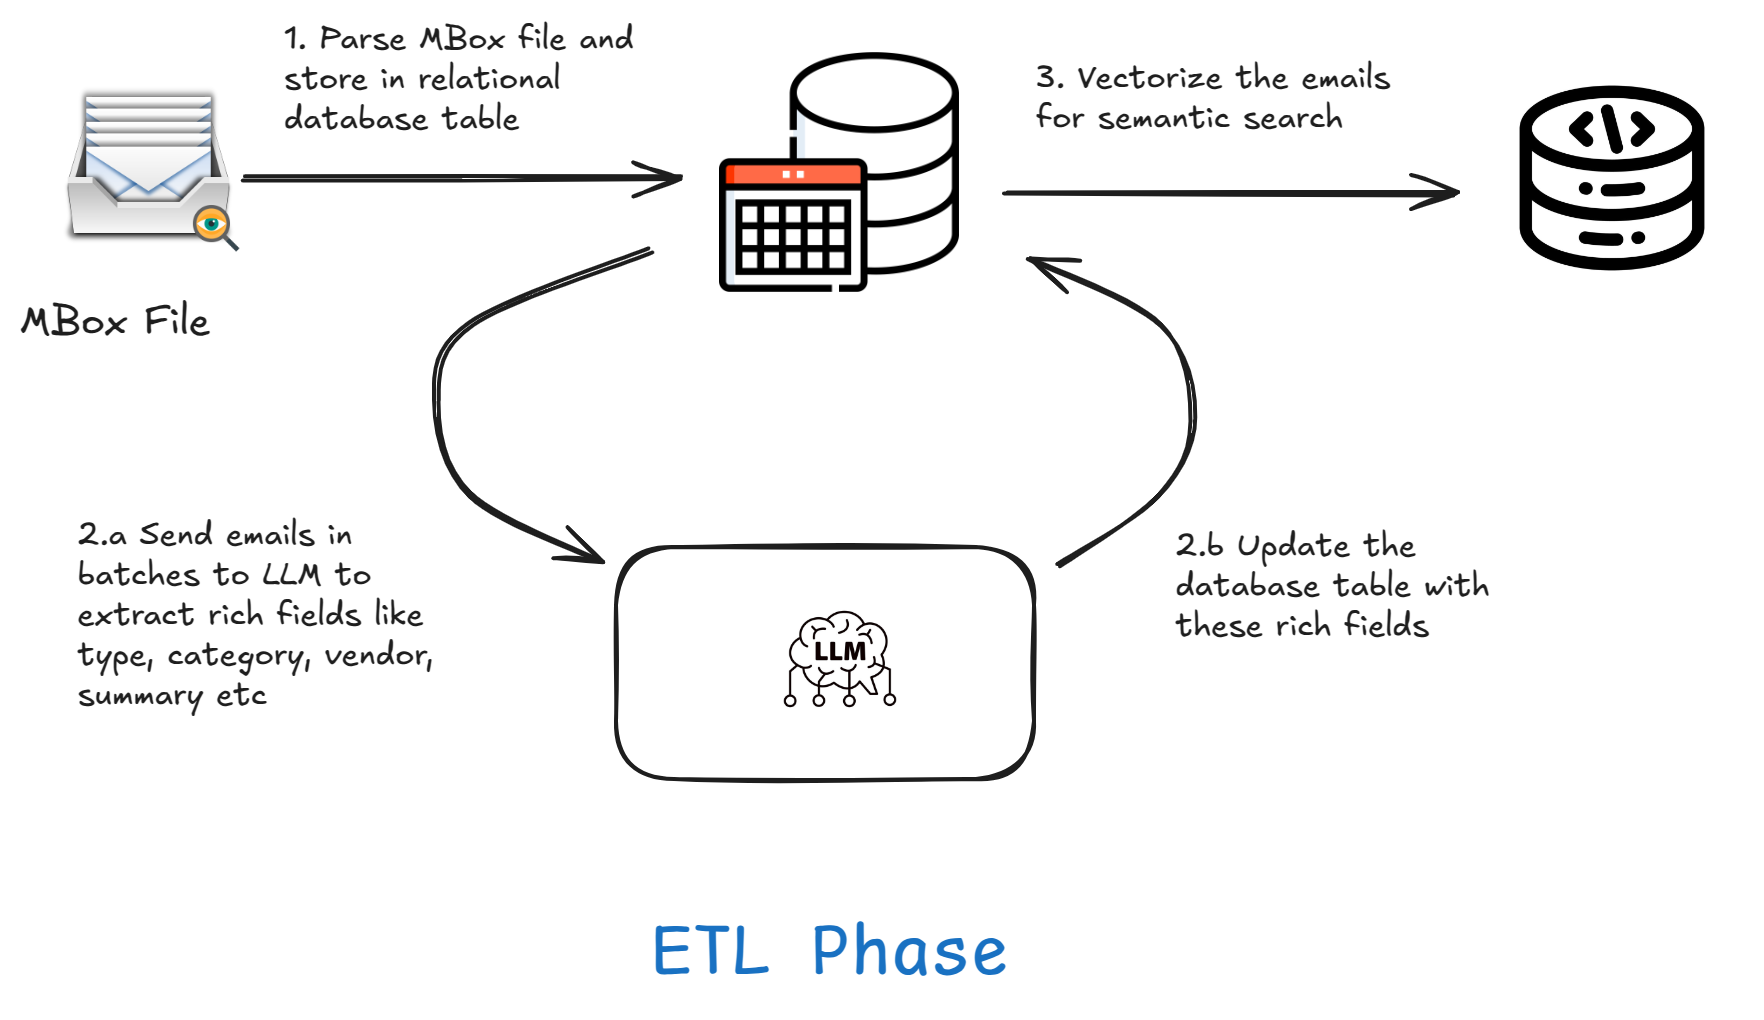
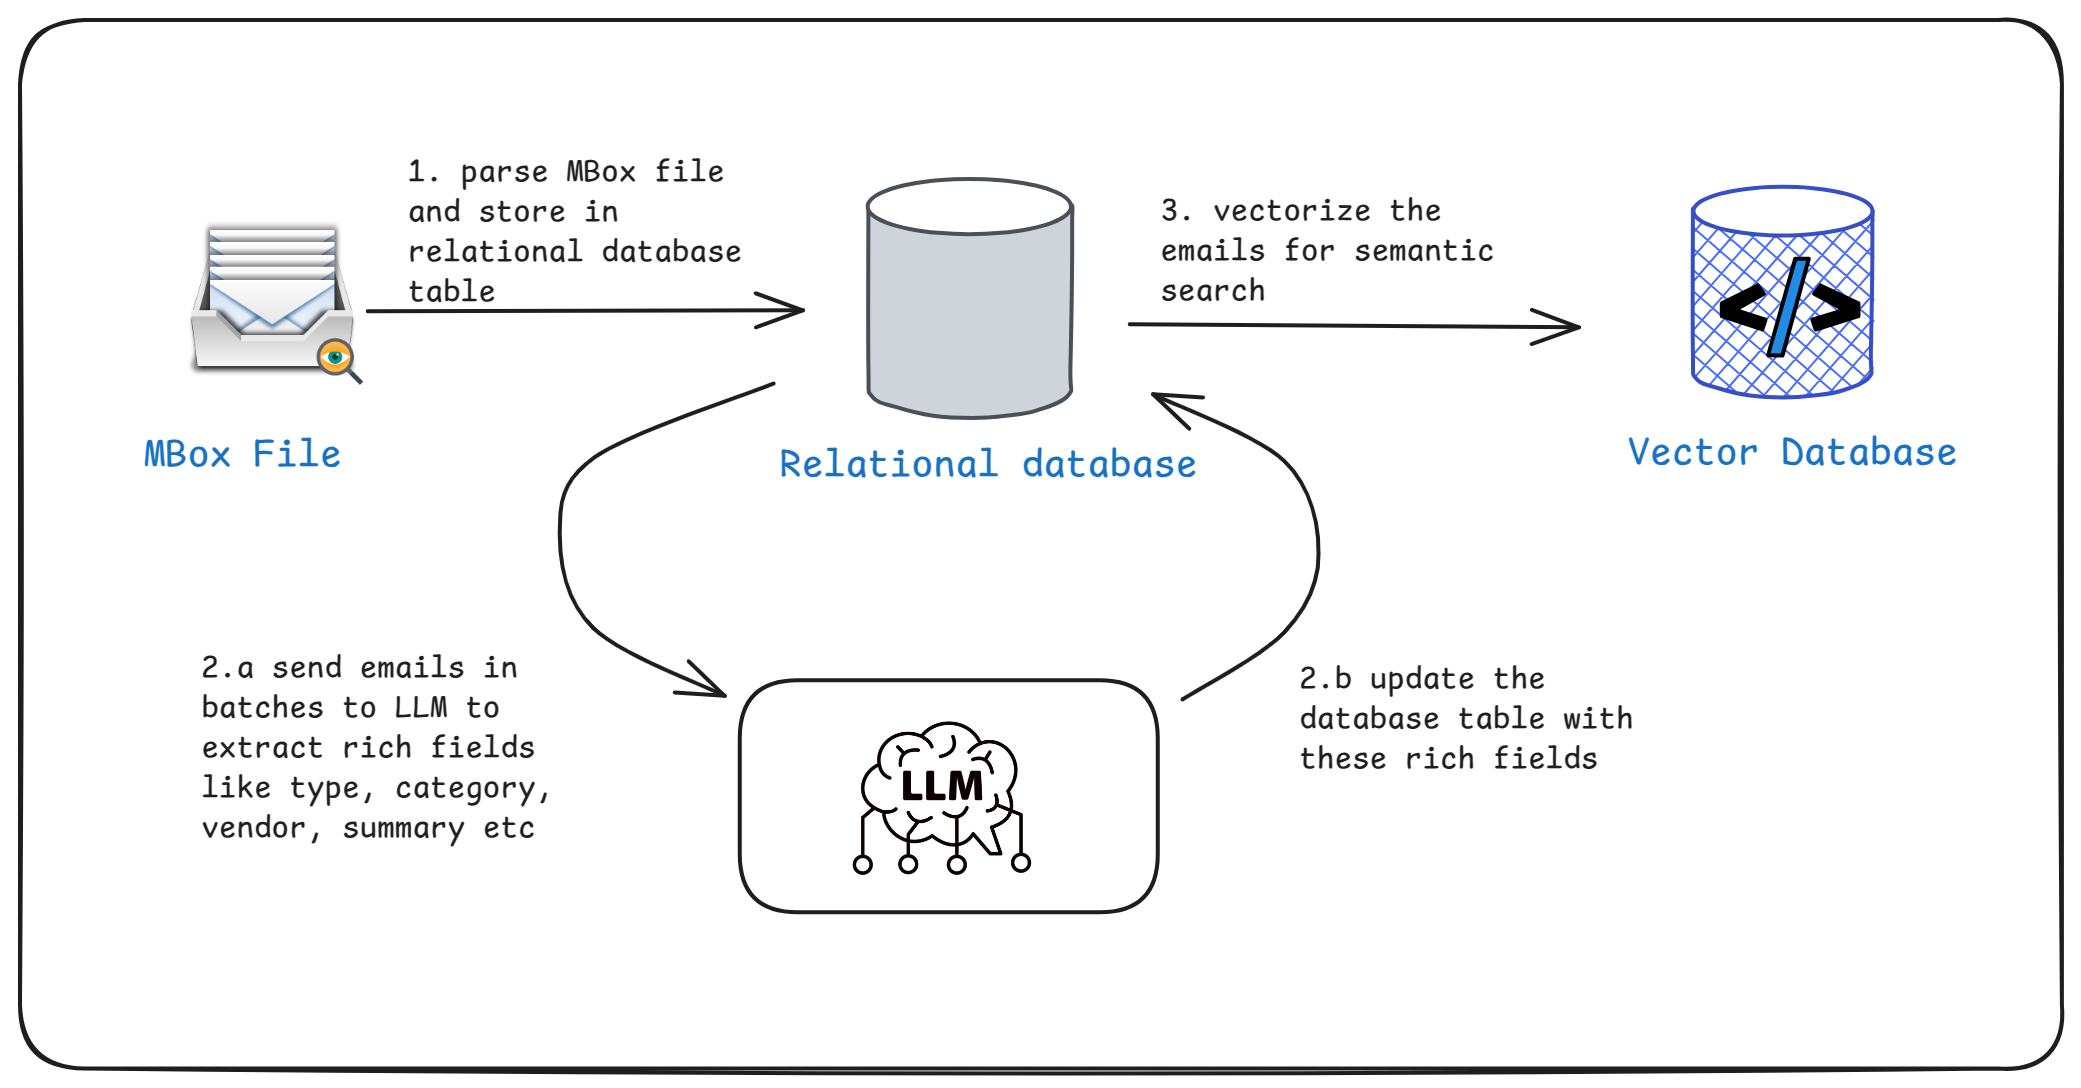
added sample q and a image

diff --git a/README.md b/README.md
@@ -73,44 +73,13 @@ The agent first classifies user queries into two categories:
 - Uses OpenAI to generate natural language responses
 - Provides structured summaries with relevant metadata
 
-### **Workflow Components**
-- **EmailQueryWorkflow**: Main workflow orchestrator using LlamaIndex's Workflow framework
-- **Query Classification**: Determines processing path (SQL vs Vector)
-- **Data Retrieval**: Executes SQL or vector search based on classification
-- **Response Synthesis**: Generates final user-friendly responses
-
 ## Main Technologies Used
 
-### **Core Framework**
-- **LlamaIndex**: Workflow orchestration, agent management, and vector database integration
-- **FastAPI**: High-performance web API framework
-- **Streamlit**: Interactive web interface for Q&A
-
-### **AI/ML Stack**
-- **OpenAI GPT**: Natural language processing and SQL generation
-- **HuggingFace Transformers**: Local embedding models (sentence-transformers/all-MiniLM-L6-v2)
-- **LlamaIndex**: Workflow orchestration, vector database integration, and document processing
-- **Groq**: Alternative LLM provider for email annotation
-
-### **Data Storage**
-- **SQLite**: Structured email data storage
-- **Qdrant**: Vector database for semantic search
-- **Pandas**: Data manipulation and analysis
-
-### **Email Processing**
-- **mail-parser**: Email parsing and metadata extraction
-- **BeautifulSoup**: HTML email content processing
-- **mailbox**: Mbox file handling
-
-### **Development & Deployment**
-- **Poetry**: Dependency management
-- **Ruff**: Code formatting and linting
-- **Python 3.11+**: Modern Python features and performance
-
-### **Infrastructure**
-- **SQLAlchemy**: Database ORM and connection management
-- **Pydantic**: Data validation and serialization
-- **Dotenv**: Environment variable management
+- **Core Framework**: LlamaIndex, FastAPI, Streamlit
+- **AI/ML Stack**: OpenAI GPT, HuggingFace, LlamaIndex, Groq
+- **Data Storage**: SQLite, Qdrant, Pandas
+- **Email Processing**: mail-parser, BeautifulSoup, mailbox
+- **Development & Infrastructure**: Poetry, Ruff, SQLAlchemy, Pydantic, Python 3.11+
 
 ## Getting Started
 
@@ -136,25 +105,10 @@ cp .env.example .env
 
 ### Usage
 
-1. **Ingest Emails**:
-   ```bash
-   python scripts/ingest_emails.py --mbox path/to/your/emails.mbox
-   ```
-
-2. **Build Vector Index**:
-   ```bash
-   python scripts/build_vector_index.py
-   ```
-
-3. **Start the API**:
-   ```bash
-   python main.py
-   ```
-
-4. **Launch the UI**:
-   ```bash
-   streamlit run ui/new_chatbot.py
-   ```
+1. Ingest emails: `python scripts/ingest_emails.py --mbox path/to/your/emails.mbox`
+2. Build vector index: `python scripts/build_vector_index.py`
+3. Start the API: `python main.py`
+4. Launch the UI: `streamlit run ui/new_chatbot.py`
 
 ### Example Queries
 - "Show me all Amazon purchases from last month"
